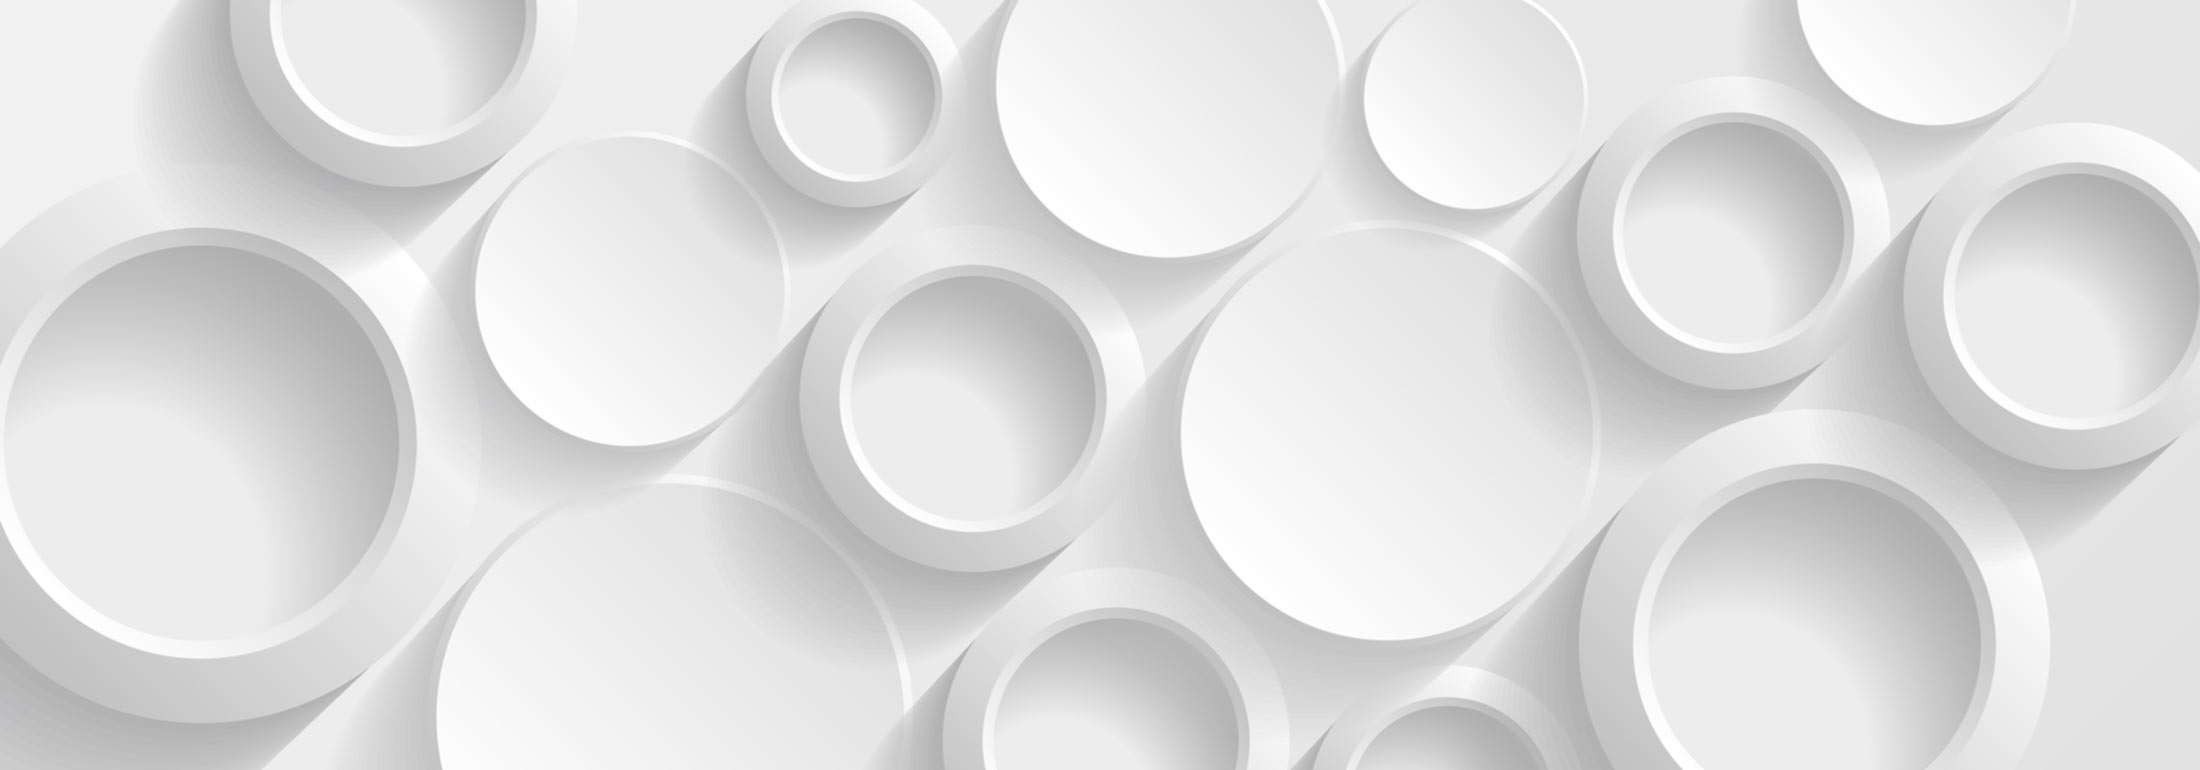
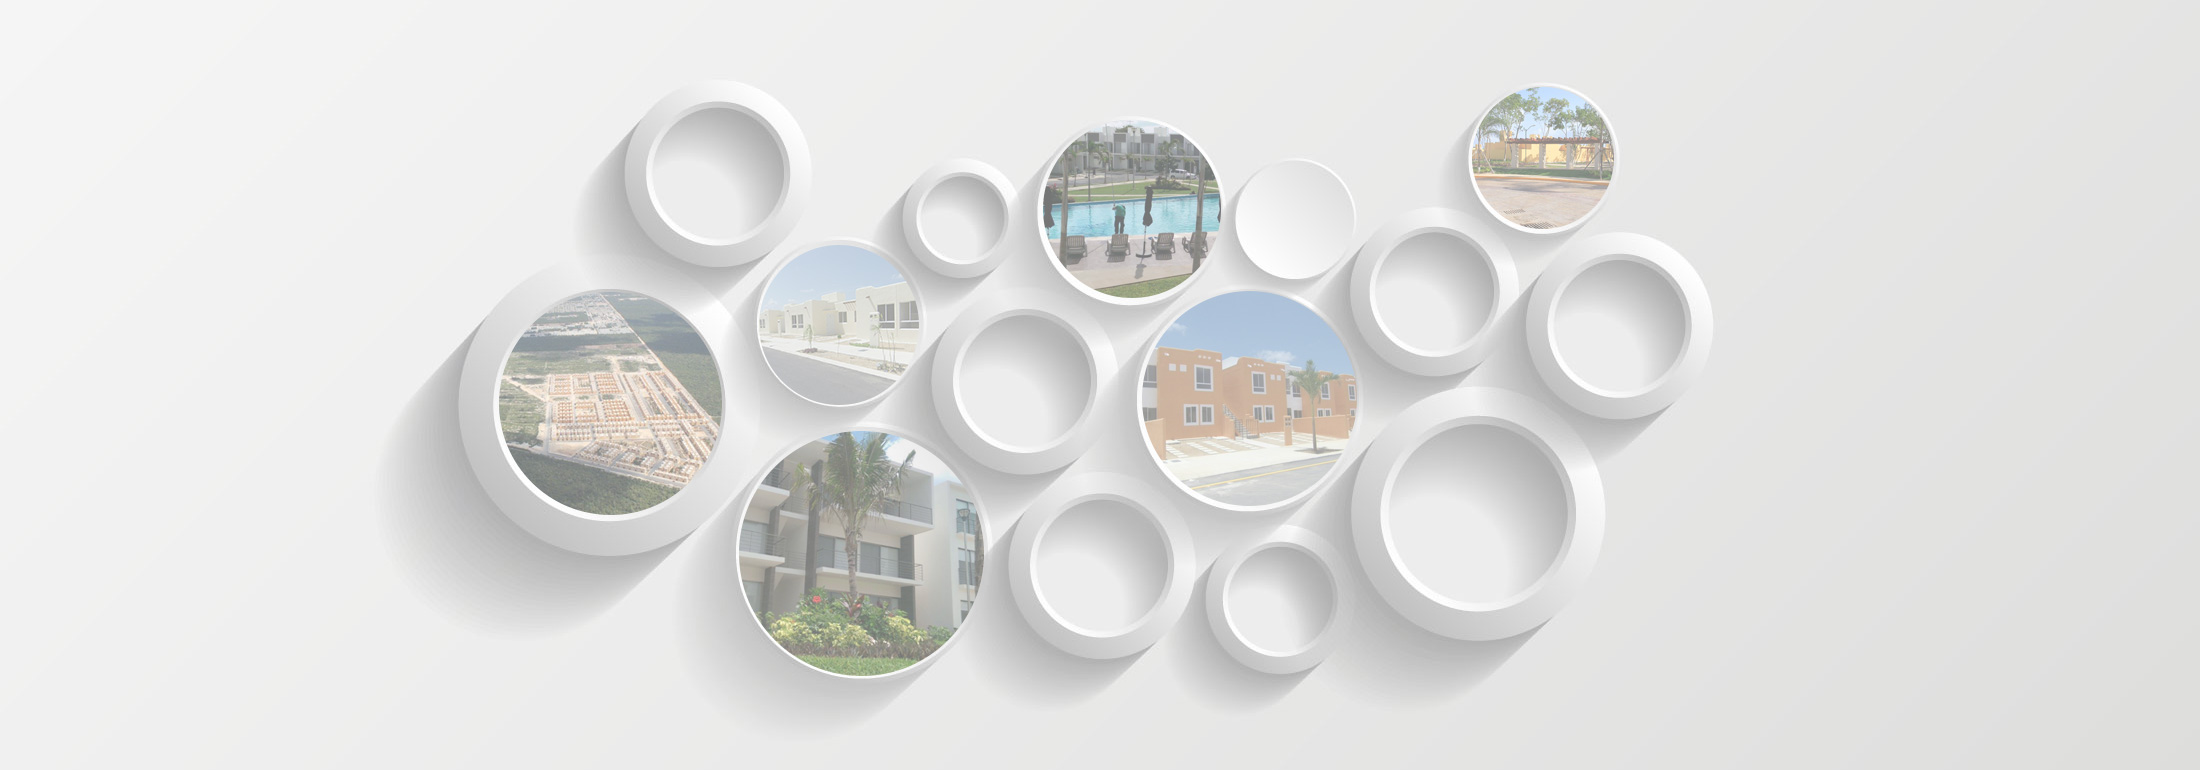
+ slider

diff --git a/public/assets/base/css/ajustes-jc.css b/public/assets/base/css/ajustes-jc.css
@@ -201,3 +201,29 @@ color:#9AB4BD ;
 
     margin: 15px auto;
 }
+
+.c-font-naranja {
+    color: #F04C23 !important;
+}
+
+.container {
+  padding-right: 15px;
+  padding-left: 15px;
+  margin-right: auto;
+  margin-left: auto;
+}
+@media (min-width: 768px) {
+  .container {
+    width: 750px;
+  }
+}
+@media (min-width: 992px) {
+  .container {
+    width: 972px;
+  }
+}
+@media (min-width: 1200px) {
+  .container {
+    width: 1170px;
+  }
+}